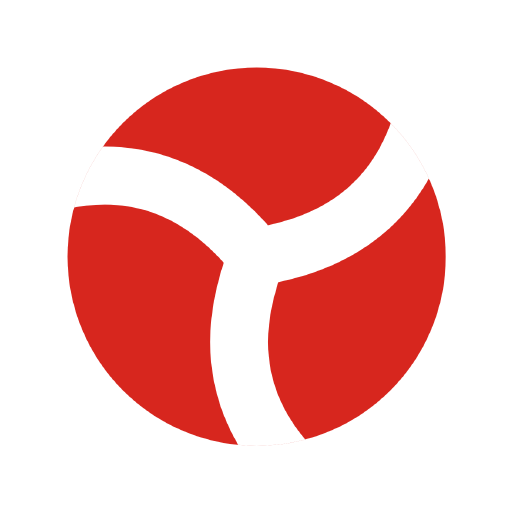
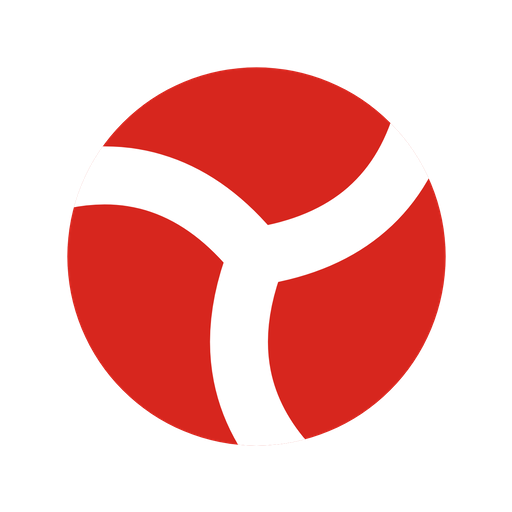
Resample with Lanczos-3 instead of a snapping box filter
Zoomed in, every generated logo asset had staircased curves. The old
resizer snapped each output pixel to whole source pixels, so at a 3.1x
reduction each output pixel averaged 3 or 4 source pixels depending on
where it landed - a stair-step on any circle - and when the target was
larger than the source it collapsed to nearest-neighbour. The cover
scales the wordmarks 188px ink to 200px, so its curves were being
duplicated pixel-for-pixel.

resample() is separable Lanczos-3 with fractional weights, computed in
premultiplied alpha so transparent pixels cannot bleed colour into the
edge, with the kernel widened by the reduction factor when shrinking and
output clamped for overshoot. downscale is now an alias, so the app
icons, maskable, favicon, OG image and splash all pick it up.

Logo tile exports also go 512 to 1024, since the mark artwork is 1024
square and they get zoomed into. Side effect: the inlined splash data
URI grows 5KB to 9KB because smooth gradients compress worse.

diff --git a/index.html b/index.html
@@ -105,7 +105,7 @@
                which paints a broken-image icon in the middle of the boot screen. -->
           <div class="ball">
             <!-- splash-mark:start -->
[2 lines of base64/hex data omitted]
             <!-- splash-mark:end -->
           </div>
         </div>

diff --git a/PROJECT_STATE.md b/PROJECT_STATE.md
@@ -192,6 +192,32 @@ Ordered by priority. Update status inline as these move.
   GameDetail; the open-spots filter reads "Any number". The stored value stays
   `"Any"` — changing it would orphan every game already saved with it.
 
+**Image resampling rewritten — every generated logo asset (2026-07-30):**
+- Aidan: zoomed in, the logo "looks slightly pixelated, doesn't look as rounded".
+  He was right, and the cause was in `gen-logo.mjs`'s resizer, so it affected
+  **every** generated asset, not just the exports.
+- The old `downscale()` was a box filter that snapped each output pixel to whole
+  source pixels. Two consequences: at a 3.1× reduction each output pixel averaged
+  3 *or* 4 source pixels depending on where it landed, which puts a stair-step on
+  a circle's edge; and when the target was **larger** than the source it collapsed
+  to one source pixel — plain nearest-neighbour. The cover banner scales the
+  wordmark's 188px-tall ink to 200px, so the curves there were being duplicated
+  pixel-for-pixel. That is what he saw.
+- ✅ Replaced with `resample()`: separable **Lanczos-3** with fractional weights,
+  in premultiplied alpha (so transparent pixels can't bleed colour into the
+  edge), kernel widened by the reduction factor when shrinking, and clamped on
+  output because Lanczos overshoots slightly at a hard edge. `downscale` is now an
+  alias, so all existing call sites — app icons, maskable, favicon, OG image,
+  splash — got the fix too. Verified by magnifying the same region of the old and
+  new files at the same scale: staircase → smooth anti-aliased curve.
+- ✅ Logo tile exports went 512 → **1024** (the mark artwork is 1024², so the
+  inner 656px is still a reduction). The 512 files are deleted, not kept
+  alongside.
+- Cost worth knowing: the inlined splash data URI grew 5 KB → 9 KB, because
+  smooth gradients compress worse than flat nearest-neighbour blocks.
+  `index.html` is 13.8 KB total — still far better than the 74 KB network fetch
+  it replaced.
+
 **Brand exports for outside-the-app use (2026-07-30):**
 - Aidan needed a cover image and a logo image for the Tally volleyball survey.
   `scripts/gen-logo.mjs` step 8 now also writes **`brand-exports/`**, so these
